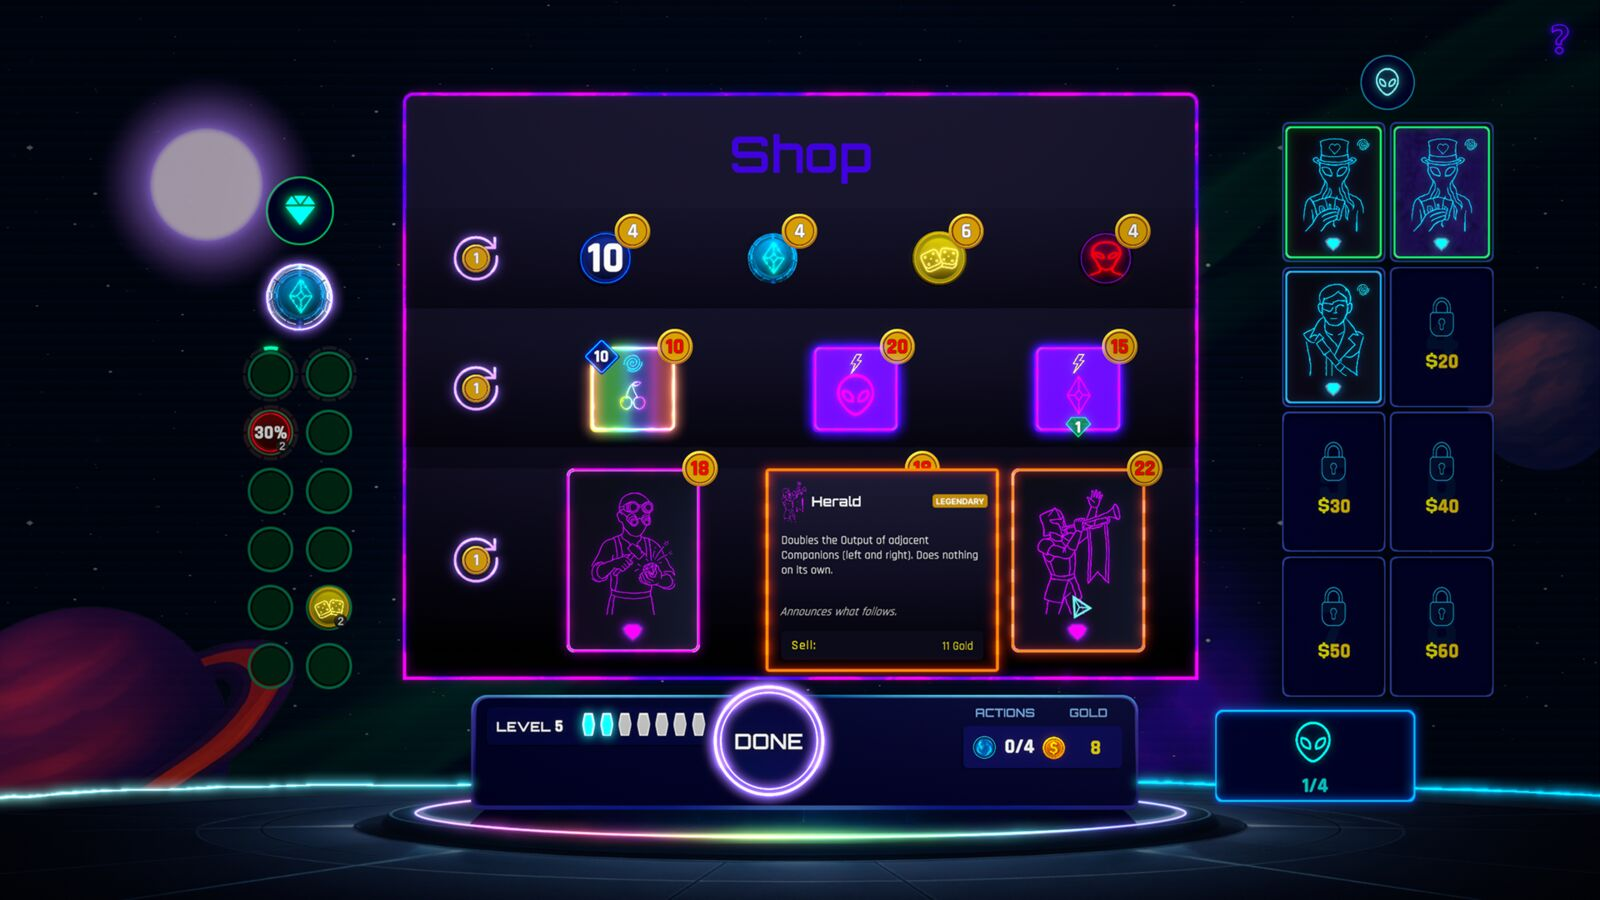
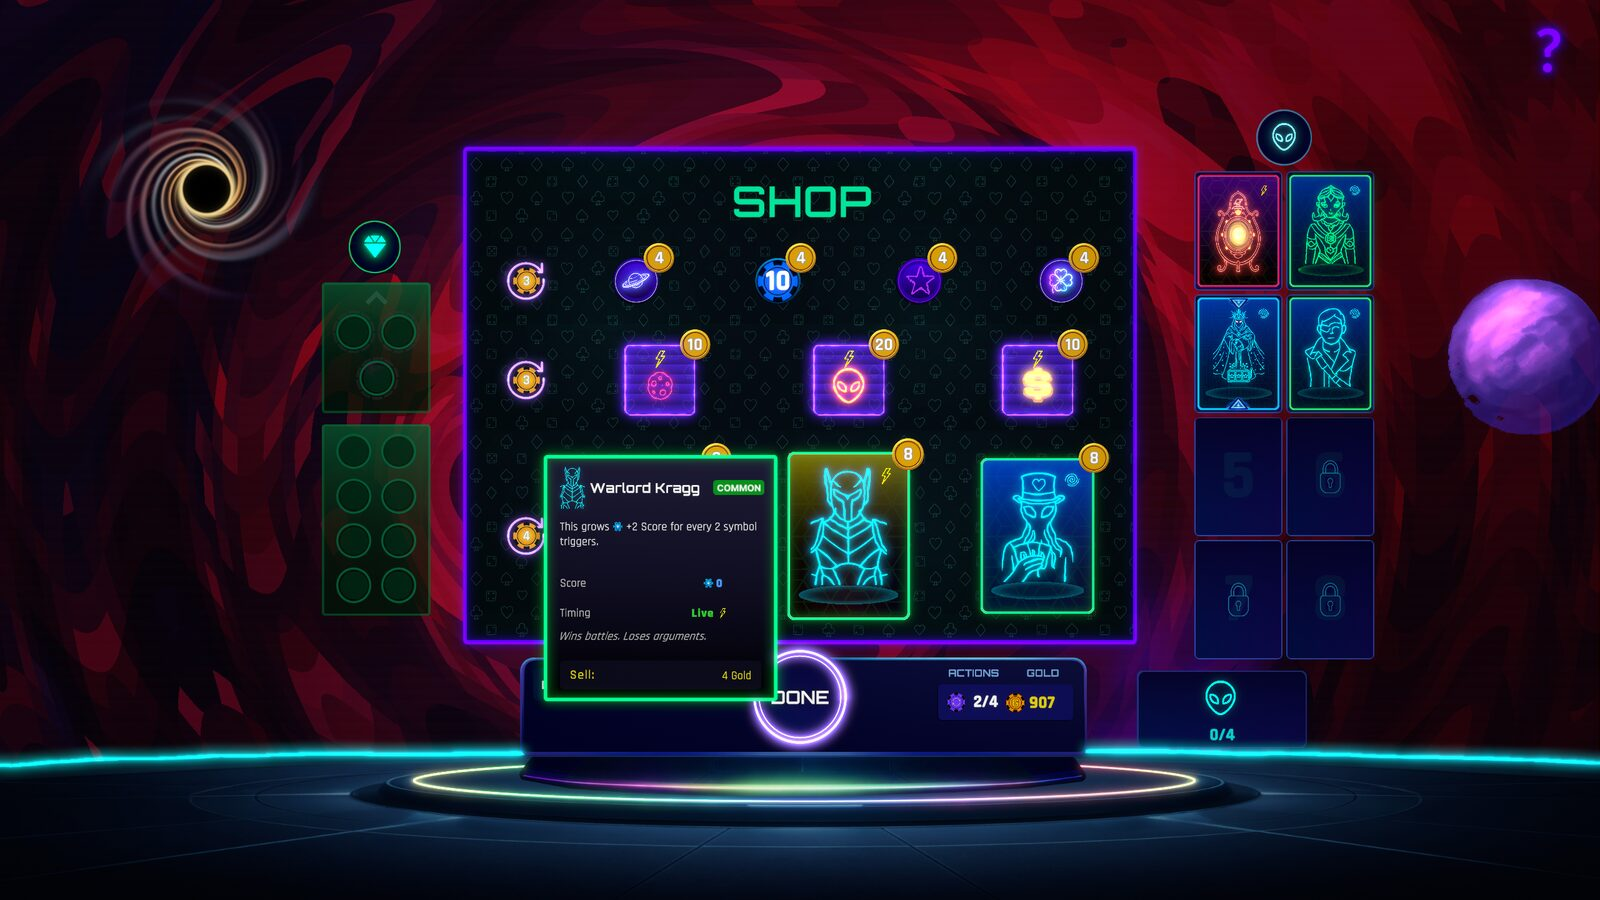
Home gallery: current September screenshots

diff --git a/index.html b/index.html
@@ -1139,23 +1139,23 @@
         </figure>
       </div>
       <div class="shots reveal">
-        <button class="shot" data-caption="Chain color combos across the board" type="button">
-          <img src="assets/screenshots/spin-phase.jpg" alt="Spin Tactics gameplay — a neon board mid-combo with Companion cards on the right" loading="lazy">
+        <button class="shot" data-caption="Companions fire into your combos" type="button">
+          <img src="assets/screenshots/companions-firing.jpg" alt="Companions firing beams into lit combos on the board" loading="lazy">
         </button>
-        <button class="shot" data-caption="Beat the round, choose your reward" type="button">
-          <img src="assets/screenshots/choose-reward.jpg" alt="Reward selection screen offering three Companion cards" loading="lazy">
+        <button class="shot" data-caption="Open booster packs between runs" type="button">
+          <img src="assets/screenshots/legendary-pack.jpg" alt="Opening a Legendary booster pack" loading="lazy">
         </button>
         <button class="shot" data-caption="Combos climb all the way to GALACTIC" type="button">
           <img src="assets/screenshots/galactic-combo.jpg" alt="A galactic combo exploding across the whole board" loading="lazy">
         </button>
         <button class="shot" data-caption="Choose your next encounter on the way to the boss" type="button">
-          <img src="assets/screenshots/journey-map.jpg" alt="Branching journey map of nodes leading to a boss" loading="lazy">
+          <img src="assets/screenshots/choose-encounter.jpg" alt="Choosing the next encounter on the way to the boss" loading="lazy">
         </button>
         <button class="shot" data-caption="Spend your gold between encounters" type="button">
           <img src="assets/screenshots/shop.jpg" alt="Neon shop screen with Companions and upgrades for sale" loading="lazy">
         </button>
-        <button class="shot" data-caption="100+ Companions to discover and master" type="button">
-          <img src="assets/screenshots/library.jpg" alt="Companion library collection screen" loading="lazy">
+        <button class="shot" data-caption="Watch your engine come alive" type="button">
+          <img src="assets/screenshots/combo-payout.jpg" alt="A big combo scoring with Companions adding to it" loading="lazy">
         </button>
       </div>
     </div>
